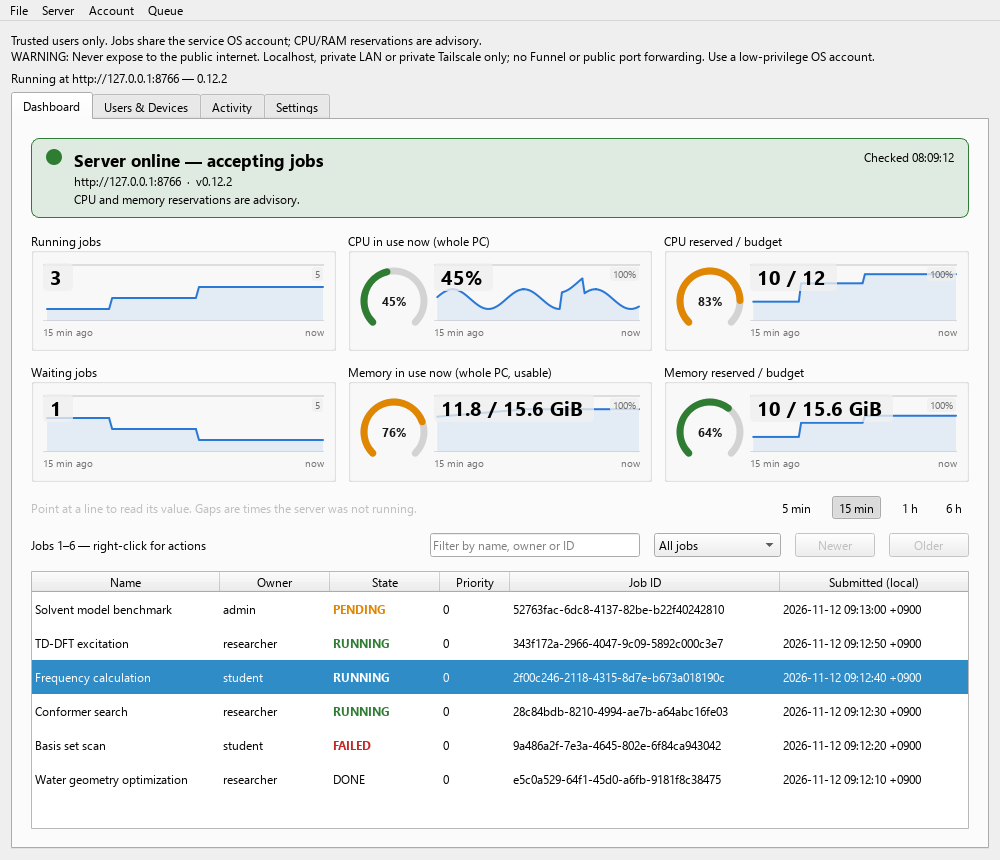
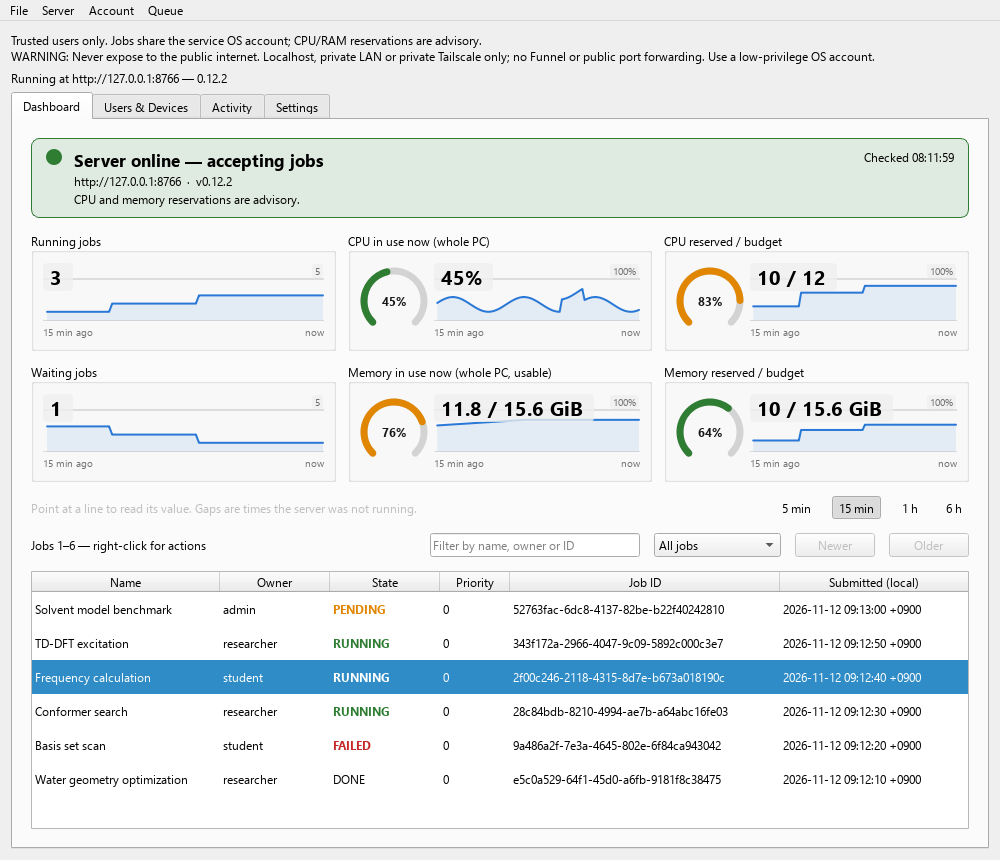
Set the scale label just above the top line
On the dashboard the top line moves down by one label height so its
value can sit above it; the Web UI draws the label above the line too.

diff --git a/job_server/web/app.js b/job_server/web/app.js
@@ -91,7 +91,7 @@ function drawTrend(key,hover=null) {
   }
   close();
   // A thin line marks the top of the scale; its right end says what it stands for.
-  const top=trendTop(key),label=svgElement('text',{class:'trend-top-label',x:width-2,y:14});
+  const top=trendTop(key),label=svgElement('text',{class:'trend-top-label',x:width-2,y:-3});
   label.textContent=(['running','pending'].includes(key)?top:top+'%');
   const parts=[svgElement('line',{class:'trend-top',x1:0,x2:width,y1:2,y2:2}),svgElement('line',{class:'trend-base',x1:0,x2:width,y1:height-0.5,y2:height-0.5}),svgElement('path',{class:'trend-area',d:area}),svgElement('path',{class:'trend-line',d:path}),label];
   if(hover)parts.push(svgElement('line',{class:'trend-cross',x1:hover.x,x2:hover.x,y1:0,y2:height}),svgElement('circle',{class:'trend-dot',cx:hover.x,cy:hover.y,r:4}));

diff --git a/job_server/ui/meters.py b/job_server/ui/meters.py
@@ -129,6 +129,10 @@ class Trend(QWidget):
         font.setPointSizeF(max(6.5, font.pointSizeF() - 1.5))
         return font
 
+    def _ceiling(self):
+        """Where the top-of-scale line sits: low enough for its label to sit above it."""
+        return QFontMetricsF(self._axis_font()).height() + 2
+
     def _plot_height(self):
         """The line's own height, above the small time axis."""
         return self.height() - QFontMetricsF(self._axis_font()).height() - 3
@@ -136,7 +140,8 @@ class Trend(QWidget):
     def _points(self):
         """(time, value, point) per sample; a None point where the line must break."""
         now, top = self.clock(), self._scale()
-        width, height = self.width() - 2, self._plot_height() - 4
+        ceiling = self._ceiling()
+        width, height = self.width() - 2, self._plot_height() - ceiling - 2
         points, previous = [], None
         for when, value in self._visible():
             # The server samples every few seconds; a longer silence is time it was not running.
@@ -145,7 +150,7 @@ class Trend(QWidget):
             previous = when
             points.append((when, value, None if value is None else QPointF(
                 1 + width * (1 - (now - when) / self.span),
-                2 + height * (1 - min(value, top) / top),
+                ceiling + height * (1 - min(value, top) / top),
             )))
         return points
 
@@ -157,7 +162,7 @@ class Trend(QWidget):
         painter.drawLine(QPointF(0, base), QPointF(self.width(), base))
         # The top of the scale: without it a line's height says nothing.
         painter.setPen(QPen(_ink(self, 0.22), 1))
-        painter.drawLine(QPointF(0, 2), QPointF(self.width(), 2))
+        painter.drawLine(QPointF(0, self._ceiling()), QPointF(self.width(), self._ceiling()))
         # Says what the line spans; without it the width means nothing.
         painter.setFont(self._axis_font())
         painter.setPen(_ink(self, 0.55))
@@ -197,7 +202,7 @@ class Trend(QWidget):
         metrics = QFontMetricsF(painter.font())
         text = self.top_label()
         width = metrics.horizontalAdvance(text) + 6
-        corner = QRectF(self.width() - width - 1, 4, width, metrics.height())
+        corner = QRectF(self.width() - width - 1, self._ceiling() - metrics.height() - 1, width, metrics.height())
         veil = QColor(self.palette().window().color())
         veil.setAlphaF(0.8)
         painter.setPen(Qt.PenStyle.NoPen)
